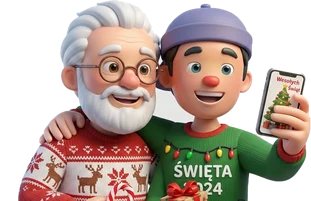
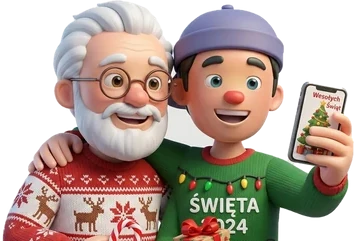
Main list frames: full-figure art for all categories (food unchanged), new occasion arts (18th, anniversary, other) chosen by occasion chip
Claude-Session: https://claude.ai/code/session_017XbPUHn37fqDv6KEidLMw8

diff --git a/public/index.html b/public/index.html
@@ -1713,7 +1713,9 @@ const FR=id=>id&&typeof S!=="undefined"&&S.con&&S.con.has(id)&&id!==me()?`<i cla
 const HG={run:["#d7ecff,#eaf6ff","max-width:none!important;width:100%!important",5],scoot:["#ffe9b8,#ffd9c2","max-width:none!important;width:204px",46],walk:["#ffd9e0,#ffe9d0","max-width:none!important;width:100%!important",42],sport:["#ffd9b8,#ffecc2","max-width:none!important;width:100%!important",0],house:["#e1c9ff,#ffc9e6","max-width:none!important;width:418px",23],biz:["#cfe0ff,#e6eeff","max-width:none!important;width:331px",40],gaming:["#c8c3ff,#dfe8ff","margin-left:16px",89],coffee:["#f3d9b8,#f6e6cf","margin-left:16px",50],cinema:["#f5b8c6,#ffd9c9","",66],club:["#e2d1fa,#fbd2ea","max-width:none!important;width:388px",28],food:["#ffd2a8,#ffe9b8","margin-left:6px;bottom:-85px!important;max-height:340px!important;max-width:min(400px,112%)!important",63],basket:["#ffcfa6,#ffe1c8","",42],fball:["#b9e8c8,#e6f3c5","",38],pool:["#b9e3f5,#d6f1f0","",53],pub:["#f3d9a0,#fbe9bf","",62],vball:["#c9e3ff,#ffe3b8","max-width:none!important;width:234px",42],gym:["#cfd8e8,#e4e1f2","",92],nye:["#b9c4f5,#ffe6a8","",10],xmas:["#bfe3c7,#ffd0cf","",18],trip:["#bfe3f0,#cdeedd","max-width:310px;max-height:205px;margin-left:12px;margin-bottom:-6px",41],other:["#dfe3f0,#efe9f7","max-width:none!important;width:100%!important",42],occ:["#ffd6e8,#fff0c2","max-width:none!important;width:400px",25],bike:["#c9ecd3,#e3f4c8","max-width:none!important;width:248px",50],gallery:["#ffd0c9,#d7e9d0","",42]};
 const PXH={run:197,scoot:238,walk:234,sport:170,house:225,biz:238,gaming:240,coffee:240,cinema:240,club:226,food:240,basket:236,fball:232,pool:240,pub:240,vball:166,gym:240,nye:184,xmas:184,trip:205,other:240,occ:223,bike:248,gallery:236};
 const PXO={run:[-12,11],scoot:[-33,8],walk:[-30,9],sport:[-12,12],house:[0,-12],biz:[-3,12],gaming:[-7,12],coffee:[2,12],cinema:[3,12],club:[-4,12],food:[-5,12],basket:[-9,12],fball:[-31,12],pool:[18,12],pub:[-2,12],vball:[16,4],gym:[5,12],nye:[-3,12],xmas:[-24,12],trip:[3,12],other:[-5,8],occ:[6,-4],bike:[-41,10],gallery:[-7,12]};
-const pxFrame=(d,st)=>{const hg=HG[d.category],h=PXH[d.category]||230,o=PXO[d.category]||[0,10];return`<div class="pfr" style="background:linear-gradient(135deg,${hg[0]})"><img src="/e/h-${d.category}.webp?v=1116h" alt="" loading="lazy" decoding="async" style="height:${h}px;top:${o[1]}px;margin-left:${o[0]}px"></div><div class="pxt"><h3>${esc(clean(d.title))}${d.repeat?" 🔁":""}</h3><div class="pxm"><span class="tm pcd" data-t="${st}" data-x="${d.expiresAt.toMillis()}"></span><span>🕒 ${when(st)}</span>${plc(d)?`<span>📍 ${esc(plc(d))}</span>`:""}</div></div>`};
+const FH={"run":[218,12,0],"scoot":[232,12,0],"walk":[218,12,0],"sport":[181,12,0],"house":[141,35,13],"biz":[144,32,0],"other":[213,12,0],"occ":[229,12,0],"bike":[252,12,0],"gaming":[181,12,0],"coffee":[190,12,0],"cinema":[195,12,0],"club":[175,12,0],"basket":[177,12,-4],"fball":[189,12,8],"pool":[163,39,0],"vball":[163,13,-8],"gym":[175,12,0],"nye":[173,12,0],"trip":[239,12,0],"gallery":[205,12,0],"pub":[178,12,0],"xmas":[151,25,0],"ann":[200,12,0],"b18":[196,12,0],"occ2":[168,10,0]},FG={ann:"#ffd0dc,#ffe8d6",b18:"#cfe3ff,#e4ddff",occ2:"#ffd6e8,#fff0c2"},OCCK={eighteen:"b18",anniv:"ann",other:"occ2"};
+const pxKey=d=>d.category==="occ"&&OCCK[d.occK]||d.category;
+const pxFrame=(d,st)=>{const k=pxKey(d),f=FH[k],hg=HG[d.category],h=PXH[d.category]||230,o=PXO[d.category]||[0,10];const im=f?`<img src="/e/f-${k}.webp?v=1117f" alt="" loading="lazy" decoding="async" style="height:${f[0]}px;top:${f[1]}px;margin-left:${f[2]}px">`:`<img src="/e/h-${d.category}.webp?v=1116h" alt="" loading="lazy" decoding="async" style="height:${h}px;top:${o[1]}px;margin-left:${o[0]}px">`;return`<div class="pfr" style="background:linear-gradient(135deg,${FG[k]||hg[0]})">${im}</div><div class="pxt"><h3>${esc(clean(d.title))}${d.repeat?" 🔁":""}</h3><div class="pxm"><span class="tm pcd" data-t="${st}" data-x="${d.expiresAt.toMillis()}"></span><span>🕒 ${when(st)}</span>${plc(d)?`<span>📍 ${esc(plc(d))}</span>`:""}</div></div>`};
 const card=(d,P,link,role,hero)=>{const by=s=>P.filter(p=>p.status===s),nm=p=>esc(p.nickname)+FR(p.id)+(p.id===d.hostId?' <span class="stt">★</span>':"")+(p.status==="late"&&p.etaMin?` (${p.etaMin}m)`:"");
   const ln=(s,c)=>by(s).length?`<div class="ln">${avc("mini",avIdx(by(s)[0]))}<span><b class="pl ${c}">${sv(RI[s])}${by(s).length} ${STL(s)}</b> ${by(s).map(nm).join(", ")}</span></div>`:"";
   const [c1,c2]=thm(d),tg=role==="host"?t("roleHost")+(d.public?" 🌍":""):role==="inv"?(d.public?"🌍 "+t("pubTag"):t("roleInv")):role?t("roleMe",STL(role)):"";
@@ -2306,7 +2308,7 @@ function notifView(){
 /* ---------- NEW DROP ---------- */
 function newView(){
   const u=authed();if(!u)return;if(u.isAnonymous){go("/");setTimeout(()=>guestUp("/new"),200);return}
-  let cat="biz",day=0,sur=false,rep="no",dsel=null,pub=false,seats=8;const t0=new Date(Date.now()+36e5);
+  let cat="biz",occK=null,day=0,sur=false,rep="no",dsel=null,pub=false,seats=8;const t0=new Date(Date.now()+36e5);
   view(`<div class="scr"><div class="hdr">${bk("/")}</div><h1 class="logo" style="font-size:38px">${t("newDrop")}</h1>
   <h3>${t("what")}</h3><div class="tiles">${seasOn().concat(CATS).map(k=>`<div class="tile ${k===cat?"sel":""}" data-c="${k}">${ic(k)}${t("c_"+k)}</div>`).join("")}</div>
   <div class="chips" id="occ" hidden>${OCC.map((k,i)=>`<button class="chip" data-o="${i}">${t("o_"+k)}</button>`).join("")}</div>
@@ -2324,13 +2326,13 @@ function newView(){
   <button class="cta" id="go" style="margin-top:12px">${t("send")}</button></div>`);
   const wheel=(el,i)=>{const mark=()=>{const k=Math.round(el.scrollTop/40);[...el.children].forEach((c,j)=>c.classList.toggle("on",j===k))};el.scrollTop=i*40;mark();el.onscroll=mark};
   wheel($("#hh"),t0.getHours());wheel($("#mm"),Math.min(11,Math.round(t0.getMinutes()/5)));
-  document.querySelectorAll(".tile").forEach(c=>c.onclick=()=>{vib(10);cat=c.dataset.c;$("#cu").hidden=cat!=="other";$("#occ").hidden=cat!=="occ";$("#spc").hidden=cat!=="sport";if(cat==="sport")document.querySelectorAll("#spc .chip").forEach(x=>x.classList.remove("on"));if($("#surw")){$("#surw").hidden=cat==="biz";if(cat==="biz"&&sur){sur=false;$("#sw").classList.remove("on");if($("#pbs"))$("#pbs").parentElement.style.opacity=""}}if($("#pubw")){const oc=NOPUB.includes(cat);$("#pubw").hidden=oc;if(oc&&pub){pub=false;$("#pbs").classList.remove("on");$("#seatw").hidden=true;if($("#sw"))$("#sw").parentElement.style.opacity=""}}if(cat==="other")$("#cu").focus();if(typeof cmPin==="function")cmPin();document.querySelectorAll(".tile").forEach(x=>x.classList.toggle("sel",x===c))});
+  document.querySelectorAll(".tile").forEach(c=>c.onclick=()=>{vib(10);cat=c.dataset.c;if(cat!=="occ")occK=null;$("#cu").hidden=cat!=="other";$("#occ").hidden=cat!=="occ";$("#spc").hidden=cat!=="sport";if(cat==="sport")document.querySelectorAll("#spc .chip").forEach(x=>x.classList.remove("on"));if($("#surw")){$("#surw").hidden=cat==="biz";if(cat==="biz"&&sur){sur=false;$("#sw").classList.remove("on");if($("#pbs"))$("#pbs").parentElement.style.opacity=""}}if($("#pubw")){const oc=NOPUB.includes(cat);$("#pubw").hidden=oc;if(oc&&pub){pub=false;$("#pbs").classList.remove("on");$("#seatw").hidden=true;if($("#sw"))$("#sw").parentElement.style.opacity=""}}if(cat==="other")$("#cu").focus();if(typeof cmPin==="function")cmPin();document.querySelectorAll(".tile").forEach(x=>x.classList.toggle("sel",x===c))});
   const selDay=b=>document.querySelectorAll(".dayb button").forEach(x=>x.classList.toggle("sel",x===b));
   document.querySelectorAll(".dayb button").forEach(b=>b.onclick=e=>{vib(8);if(b.dataset.d==="x")return;day=+b.dataset.d;dsel=null;$("#dlab").textContent="📅 "+t("pickD");selDay(b)});
   $("#dpk").onclick=e=>{e.stopPropagation();try{e.target.showPicker()}catch{}};
   $("#dpk").onchange=()=>{const v=$("#dpk").value;if(!v)return;dsel=v;day=-1;$("#dlab").textContent="📅 "+new Date(v+"T12:00").toLocaleDateString(LANG,{weekday:"short",day:"numeric",month:"short"});selDay($("#dpk").parentElement)};
   document.querySelectorAll("#spc .chip").forEach(c=>c.onclick=()=>{vib(8);document.querySelectorAll("#spc .chip").forEach(x=>x.classList.toggle("on",x===c));cat=c.dataset.s;$("#ti").value=t("sp_"+cat)+" ";$("#ti").focus()});
-  document.querySelectorAll("#occ .chip").forEach(c=>c.onclick=()=>{vib(8);document.querySelectorAll("#occ .chip").forEach(x=>x.classList.toggle("on",x===c));$("#ti").value=t("o_"+OCC[+c.dataset.o])+" ";$("#ti").focus()});
+  document.querySelectorAll("#occ .chip").forEach(c=>c.onclick=()=>{vib(8);document.querySelectorAll("#occ .chip").forEach(x=>x.classList.toggle("on",x===c));occK=OCC[+c.dataset.o];$("#ti").value=t("o_"+OCC[+c.dataset.o])+" ";$("#ti").focus()});
   if($("#pbs"))$("#pbs").onclick=()=>{if(!pub&&sget("pubRules")!=="1"){vib([50,30,50]);homeTab="pub";toast(t("prNeed"));return go("/")}if(!pub&&sur){vib([50,30,50]);return toast(t("surPubX"))}vib(10);pub=!pub;$("#pbs").classList.toggle("on",pub);$("#seatw").hidden=!pub;$("#sw").parentElement.style.opacity=pub?".4":""};
   /* nowy drop z zakładki Publiczne: od razu publiczny (bez ręcznego przełączania) */
   /* publiczny drop: domyślnie wyłączony – włącza go dopiero przełącznik w formularzu (bez automatu z zakładki Publiczne) */
@@ -2385,7 +2387,7 @@ function newView(){
     const code=Math.random().toString(36).slice(2,8).toUpperCase();
     const isPubDrop=!!pg;
     if(!DEMO&&cmPt&&cmPt.q===place)pg={...(pg||{}),pt:{la:cmPt.la,lo:cmPt.lo,ap:cmPt.ap?1:0}};
-    await createDropDoc(code,{code,hostId:u.uid,hostNick:nick,hostAv:myAv(),hostPh:sget("photo")||null,category:cat,title:$("#ti").value.trim()||(cat==="other"?cu:cat==="occ"?t("occDef"):t("run",t("c_"+cat))),place,surprise:sur,repeat:rep==="no"?null:rep,...(pg||{}),
+    await createDropDoc(code,{code,hostId:u.uid,hostNick:nick,hostAv:myAv(),hostPh:sget("photo")||null,category:cat,...(cat==="occ"&&occK?{occK}:{}),title:$("#ti").value.trim()||(cat==="other"?cu:cat==="occ"?t("occDef"):t("run",t("c_"+cat))),place,surprise:sur,repeat:rep==="no"?null:rep,...(pg||{}),
       startsAt:Timestamp.fromDate(tm),expiresAt:Timestamp.fromMillis(tm.getTime()+24*36e5),createdAt:serverTimestamp()});
     await setDoc(doc(db,"drops",code,"participants",u.uid),{nickname:nick,status:"in",av:myAv(),ph:sget("photo")||null,isGuest:false,uid:u.uid,updatedAt:serverTimestamp()});
     remember(code);if(isPubDrop)PUB.at=0;pendingShare=isPubDrop?null:code;bump("hosted");if(tm.getHours()>=22||tm.getHours()<4)bump("night");if(sur)bump("surprise");vib([30,40,30]);go("/d/"+code);
